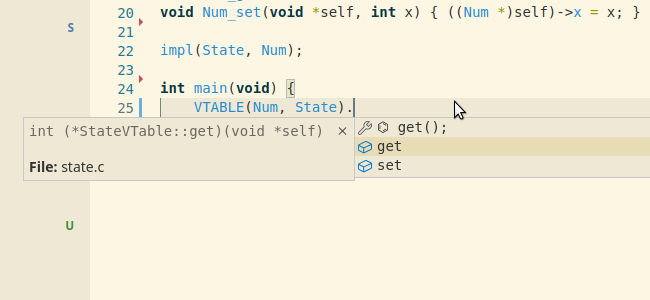
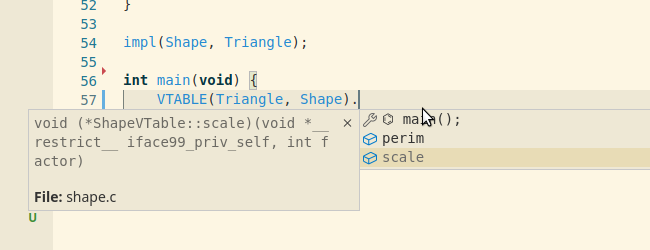
Some minor stuff

diff --git a/README.md b/README.md
@@ -223,6 +223,7 @@ Finally, just a few brief notes:
 
  - Besides `VCALL`, you also have `VCALL_OBJ`, `VCALL_SUPER`, and `VCALL_SUPER_OBJ`. They all serve a different purpose; for more information, please refer to [their documentation](#vcall_).
  - Remember that your virtual function can accept literally any parameters, even without `self`, so you can invoke them as `obj.vptr->foo(...)` as well.
+ - If you want to call an interface function on some concrete type, just write `VTABLE(T, Iface).foo(...)`.
 
 Congratulations, this is all you need to know to write most of the stuff!
 
@@ -553,7 +554,9 @@ But this approach does not work for superinterfaces' methods, as well as for met
 
 ### `self` type safety
 
-In order to make `self` parameters type-safe, we may want to likewise generate untyped wrapper functions that accept `void *restrict self` and pass the downcasted version to the underlying function:
+Since a virtual method accepts `self` and there can be many implementations, it **must** be of type `void *`. But the problem is that in concrete implementations, we still want `self` to be of some concrete type; and since `void *` and `T *` may be incompatible types, assigning a concrete method accepting `T *` to a virtual method field [results in UB](https://stackoverflow.com/questions/559581/casting-a-function-pointer-to-another-type).
+
+To solve the problem, we may want to generate untyped wrapper functions that accept `void *restrict self` and pass the downcasted version to the underlying method:
 
 ```c
 void Rect_scale_wrapper(void *restrict self, int factor) {
@@ -561,7 +564,7 @@ void Rect_scale_wrapper(void *restrict self, int factor) {
 }
 ```
 
-But the reason we do **not** is that in C99, it is impossible to differentiate `void` from other types; if the return type is `void`, we must not emit `return` with an expression, otherwise, we **must**. We could come up with something like `vfuncVoid` and `defaultVFuncVoid` but this would increase the learning curve and complicate the design and implementation of Interface99.
+But the reason we do **not** do this is that in C99, it is impossible to differentiate `void` from other types; if the return type is `void`, we must not emit `return` with an expression, otherwise, we **must**. We could come up with something like `vfuncVoid` and `defaultVFuncVoid` but this would increase the learning curve and complicate the design and implementation of Interface99.
 
 However, casting untyped `self` to a particular type is still quite unpleasant. The best thing I came up with is the `VSelf` and `VSELF(T)` mechanism, which nonetheless works quite well.
 
